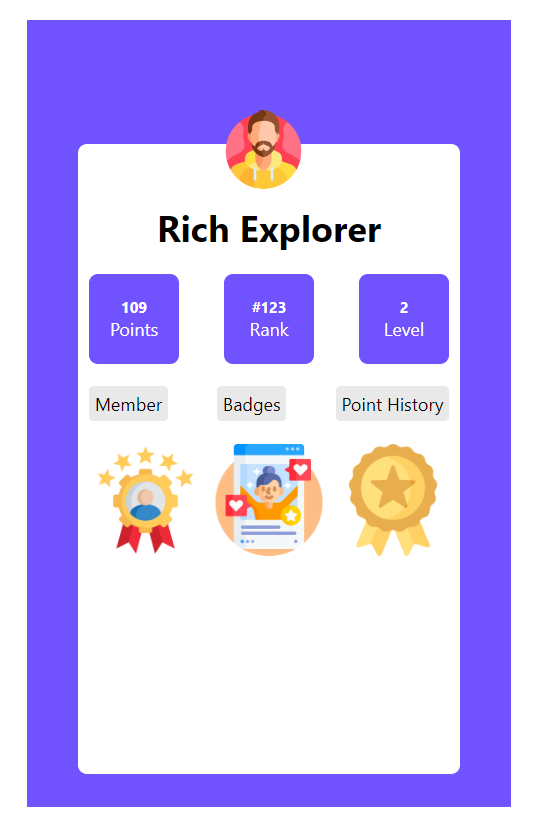
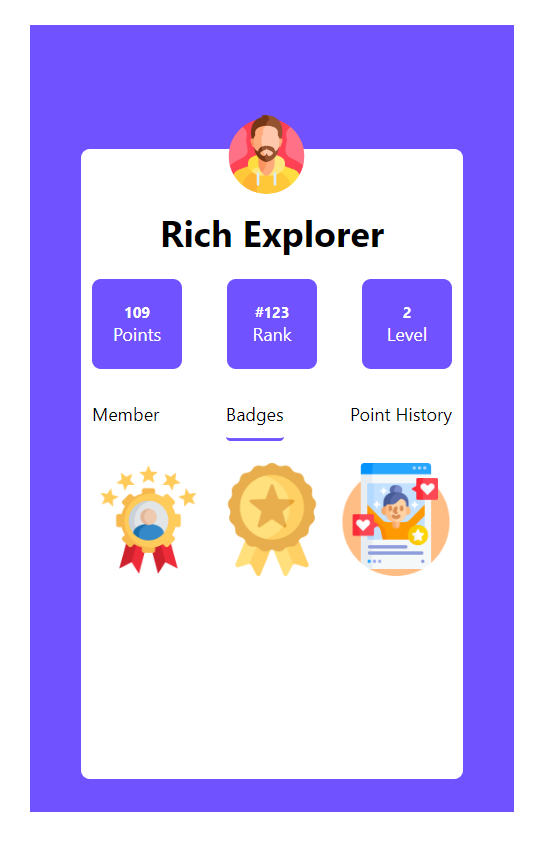
main

diff --git a/quest_labs/src/components/Profile.jsx b/quest_labs/src/components/Profile.jsx
@@ -1,182 +1,210 @@
 import React, { useEffect, useState } from "react";
 import Popup from "./Popup";
 function Profile() {
-
-
   const [img, setimg] = useState("");
   const [show, setShow] = useState(false);
-  const [data, setdata] = useState("")
-  const [tier, settier] = useState("")
-  const [badge4, setbadge4] = useState("")
-  const [badge5, setbadge5] = useState("")
-  const [badge7, setbadge7] = useState("")
-  const [rank, setrank] = useState("")
+  const [data, setdata] = useState("");
+  const [tier, settier] = useState("");
+  const [badge4, setbadge4] = useState("");
+  const [badge5, setbadge5] = useState("");
+  const [badge7, setbadge7] = useState("");
+  const [rank, setrank] = useState("");
 
+  const [activeTab, setActiveTab] = useState("Badges");
 
+  const handleTabClick = (tab) => {
+    setActiveTab(tab);
+  };
+
+  const handle_click = () => {
+    setShow(!show);
+  };
+
+  const close = () => {
+    setShow(false);
+  };
 
   const fetch_data = async () => {
     let headersList = {
-        "apikey": "k-6fe7e7dc-ac8f-44a1-8bbf-a1754ddf88be",
-        "token": "eyJhbGciOiJIUzI1NiIsInR5cCI6IkpXVCJ9.eyJ1c2VySWQiOiJ1LWEyMzk5NDg5LTljZDAtNGM5NC1hZDEyLTU2ODM3OTIwMmIwOCIsImlhdCI6MTcwNzk4NzYyOSwiZXhwIjoxNzA4NTkyNDI5fQ.fESDqKunAqLUgHBCUsNYpGcNrTeVEty91HqGebX59Uc"
-       }
-       
-       let res = await fetch("https://staging.questprotocol.xyz/api/users/u-a2399489-9cd0-4c94-ad12-568379202b08", { 
-         method: "GET",
-         headers: headersList
-       });
-       
-       let data = await res.json();
-      console.log("1", data)
-       setimg(data.data.imageUrl)
-       
+      apikey: "k-6fe7e7dc-ac8f-44a1-8bbf-a1754ddf88be",
+      token:
+        "eyJhbGciOiJIUzI1NiIsInR5cCI6IkpXVCJ9.eyJ1c2VySWQiOiJ1LWEyMzk5NDg5LTljZDAtNGM5NC1hZDEyLTU2ODM3OTIwMmIwOCIsImlhdCI6MTcwNzk4NzYyOSwiZXhwIjoxNzA4NTkyNDI5fQ.fESDqKunAqLUgHBCUsNYpGcNrTeVEty91HqGebX59Uc",
+    };
+
+    let res = await fetch(
+      "https://staging.questprotocol.xyz/api/users/u-a2399489-9cd0-4c94-ad12-568379202b08",
+      {
+        method: "GET",
+        headers: headersList,
+      }
+    );
+
+    let data = await res.json();
+    console.log("1", data);
+    setimg(data.data.imageUrl);
   };
 
-
-
-  const fetch2 = async() => {
+  const fetch2 = async () => {
     let headersList = {
-        "apikey": "k-6fe7e7dc-ac8f-44a1-8bbf-a1754ddf88be",
-        "token": "eyJhbGciOiJIUzI1NiIsInR5cCI6IkpXVCJ9.eyJ1c2VySWQiOiJ1LWEyMzk5NDg5LTljZDAtNGM5NC1hZDEyLTU2ODM3OTIwMmIwOCIsImlhdCI6MTcwNzk4NzYyOSwiZXhwIjoxNzA4NTkyNDI5fQ.fESDqKunAqLUgHBCUsNYpGcNrTeVEty91HqGebX59Uc"
-       }
-       
-       let response = await fetch("https://staging.questprotocol.xyz/api/entities/e-0000000000/users/u-a2399489-9cd0-4c94-ad12-568379202b08/xp", { 
-         method: "GET",
-         headers: headersList
-       });
-       
-       let data = await response.json();
-       console.log("2",data);
-       setdata(data.data)
-       settier(data.tier)
-       
-  }
+      apikey: "k-6fe7e7dc-ac8f-44a1-8bbf-a1754ddf88be",
+      token:
+        "eyJhbGciOiJIUzI1NiIsInR5cCI6IkpXVCJ9.eyJ1c2VySWQiOiJ1LWEyMzk5NDg5LTljZDAtNGM5NC1hZDEyLTU2ODM3OTIwMmIwOCIsImlhdCI6MTcwNzk4NzYyOSwiZXhwIjoxNzA4NTkyNDI5fQ.fESDqKunAqLUgHBCUsNYpGcNrTeVEty91HqGebX59Uc",
+    };
 
+    let response = await fetch(
+      "https://staging.questprotocol.xyz/api/entities/e-0000000000/users/u-a2399489-9cd0-4c94-ad12-568379202b08/xp",
+      {
+        method: "GET",
+        headers: headersList,
+      }
+    );
 
-  const fetch3 = async() => {
+    let data = await response.json();
+    console.log("2", data);
+    setdata(data.data);
+    settier(data.tier);
+  };
+
+  const fetch3 = async () => {
     let headersList = {
-        "apikey": "k-6fe7e7dc-ac8f-44a1-8bbf-a1754ddf88be",
-        "token": "eyJhbGciOiJIUzI1NiIsInR5cCI6IkpXVCJ9.eyJ1c2VySWQiOiJ1LWEyMzk5NDg5LTljZDAtNGM5NC1hZDEyLTU2ODM3OTIwMmIwOCIsImlhdCI6MTcwNzk4NzYyOSwiZXhwIjoxNzA4NTkyNDI5fQ.fESDqKunAqLUgHBCUsNYpGcNrTeVEty91HqGebX59Uc"
-       }
-       
-       let response = await fetch("https://staging.questprotocol.xyz/api/entities/e-0000000000/users/u-a2399489-9cd0-4c94-ad12-568379202b08/xp-leaderboard-rank", { 
-         method: "GET",
-         headers: headersList
-       });
-       
-       let data = await response.json();
-       console.log("3",data.data);
-       setrank(data.data.position)
-       
-  }
-  const fetch4 = async() => {
+      apikey: "k-6fe7e7dc-ac8f-44a1-8bbf-a1754ddf88be",
+      token:
+        "eyJhbGciOiJIUzI1NiIsInR5cCI6IkpXVCJ9.eyJ1c2VySWQiOiJ1LWEyMzk5NDg5LTljZDAtNGM5NC1hZDEyLTU2ODM3OTIwMmIwOCIsImlhdCI6MTcwNzk4NzYyOSwiZXhwIjoxNzA4NTkyNDI5fQ.fESDqKunAqLUgHBCUsNYpGcNrTeVEty91HqGebX59Uc",
+    };
+
+    let response = await fetch(
+      "https://staging.questprotocol.xyz/api/entities/e-0000000000/users/u-a2399489-9cd0-4c94-ad12-568379202b08/xp-leaderboard-rank",
+      {
+        method: "GET",
+        headers: headersList,
+      }
+    );
+
+    let data = await response.json();
+    console.log("3", data.data);
+    setrank(data.data.position);
+  };
+  const fetch4 = async () => {
     let headersList = {
-        "apikey": "k-6fe7e7dc-ac8f-44a1-8bbf-a1754ddf88be",
-        "token": "eyJhbGciOiJIUzI1NiIsInR5cCI6IkpXVCJ9.eyJ1c2VySWQiOiJ1LWEyMzk5NDg5LTljZDAtNGM5NC1hZDEyLTU2ODM3OTIwMmIwOCIsImlhdCI6MTcwNzk4NzYyOSwiZXhwIjoxNzA4NTkyNDI5fQ.fESDqKunAqLUgHBCUsNYpGcNrTeVEty91HqGebX59Uc"
-       }
-       
-       let response = await fetch("https://staging.questprotocol.xyz/api/entities/e-0000000000/users/u-a2399489-9cd0-4c94-ad12-568379202b08/xp-history", { 
-         method: "GET",
-         headers: headersList
-       });
-       
-       let data = await response.json();
-       console.log("4",data.data);
-       
-  }
-  const fetch5 = async() => {
+      apikey: "k-6fe7e7dc-ac8f-44a1-8bbf-a1754ddf88be",
+      token:
+        "eyJhbGciOiJIUzI1NiIsInR5cCI6IkpXVCJ9.eyJ1c2VySWQiOiJ1LWEyMzk5NDg5LTljZDAtNGM5NC1hZDEyLTU2ODM3OTIwMmIwOCIsImlhdCI6MTcwNzk4NzYyOSwiZXhwIjoxNzA4NTkyNDI5fQ.fESDqKunAqLUgHBCUsNYpGcNrTeVEty91HqGebX59Uc",
+    };
+
+    let response = await fetch(
+      "https://staging.questprotocol.xyz/api/entities/e-0000000000/users/u-a2399489-9cd0-4c94-ad12-568379202b08/xp-history",
+      {
+        method: "GET",
+        headers: headersList,
+      }
+    );
+
+    let data = await response.json();
+    console.log("4", data.data);
+  };
+  const fetch5 = async () => {
     let headersList = {
-        "apikey": "k-6fe7e7dc-ac8f-44a1-8bbf-a1754ddf88be",
-        "token": "eyJhbGciOiJIUzI1NiIsInR5cCI6IkpXVCJ9.eyJ1c2VySWQiOiJ1LWEyMzk5NDg5LTljZDAtNGM5NC1hZDEyLTU2ODM3OTIwMmIwOCIsImlhdCI6MTcwNzk4NzYyOSwiZXhwIjoxNzA4NTkyNDI5fQ.fESDqKunAqLUgHBCUsNYpGcNrTeVEty91HqGebX59Uc"
-       }
-       
-       let response = await fetch("https://staging.questprotocol.xyz/api/entities/e-0000000000/users/u-a2399489-9cd0-4c94-ad12-568379202b08/badges", { 
-         method: "GET",
-         headers: headersList
-       });
-       
-       let data = await response.json();
-       console.log("5", data.data[0].imageUrl);
-       setbadge4(data.data[4].imageUrl)
-       setbadge5(data.data[2].imageUrl)
-       setbadge7(data.data[7].imageUrl)
+      apikey: "k-6fe7e7dc-ac8f-44a1-8bbf-a1754ddf88be",
+      token:
+        "eyJhbGciOiJIUzI1NiIsInR5cCI6IkpXVCJ9.eyJ1c2VySWQiOiJ1LWEyMzk5NDg5LTljZDAtNGM5NC1hZDEyLTU2ODM3OTIwMmIwOCIsImlhdCI6MTcwNzk4NzYyOSwiZXhwIjoxNzA4NTkyNDI5fQ.fESDqKunAqLUgHBCUsNYpGcNrTeVEty91HqGebX59Uc",
+    };
+
+    let response = await fetch(
+      "https://staging.questprotocol.xyz/api/entities/e-0000000000/users/u-a2399489-9cd0-4c94-ad12-568379202b08/badges",
+      {
+        method: "GET",
+        headers: headersList,
+      }
+    );
+
+    let data = await response.json();
+    console.log("5", data.data[0].imageUrl);
+    setbadge4(data.data[4].imageUrl);
+    setbadge5(data.data[2].imageUrl);
+    setbadge7(data.data[7].imageUrl);
     //    setbadges(data)
-       
-  }
-  
+  };
 
   useEffect(() => {
     fetch_data();
-    fetch2()
-    fetch3()
-    fetch4()
-    fetch5()
+    fetch2();
+    fetch3();
+    fetch4();
+    fetch5();
   }, []);
 
-
-
-const handle_click = () => [
-    setShow(!show)
-]
-
-const close = () => [
-    setShow(false)
-]
-
-
   return (
-
     <div className="profile_container">
-   
-   {show && <Popup close ={close} badge4={badge4} badge7={badge7}/>}
+      {show && <Popup close={close} badge4={badge4} badge7={badge7} />}
       <div className="item">
         <div className="info">
-       
-          <img className="rich_img"
-            src={img}
-            alt=""
-          />
+          <img className="rich_img" src={img} alt="" />
           <h1>Rich Explorer</h1>
         </div>
 
         <div className="explorer">
-
-
           <div>
             <h5>{data}</h5>
             <p>Points</p>
           </div>
 
           <div>
-          <h5>#{rank}</h5>
+            <h5>#{rank}</h5>
             <p>Rank</p>
           </div>
 
           <div>
-          <h5>{tier}</h5>
+            <h5>{tier}</h5>
             <p>Level</p>
           </div>
-
-
         </div>
 
         <div className="member">
-          <p >Member</p>
-          <p >Badges</p>
-          <p>Point History</p>
-       
+          <p
+            onClick={() => handleTabClick("Member")}
+            className={activeTab === "Member" ? "active-tab" : ""}
+          >
+            Member
+          </p>
+          <p
+            onClick={() => handleTabClick("Badges")}
+            className={activeTab === "Badges" ? "active-tab" : ""}
+          >
+            Badges
+          </p>
+          <p
+            onClick={() => handleTabClick("PointHistory")}
+            className={activeTab === "PointHistory" ? "active-tab" : ""}
+          >
+            Point History
+          </p>
         </div>
-        <div className="badges_img">
+        {activeTab === "Member" && (
+          <div className="member-content badges_img">
             <img onClick={handle_click} src={badge4} alt="" />
             <img onClick={handle_click} src={badge5} alt="" />
             <img onClick={handle_click} src={badge7} alt="" />
-            </div>
+          </div>
+        )}
+
+        {activeTab === "Badges" && (
+          <div className="badges_img">
+            <img onClick={handle_click} src={badge4} alt="" />
+            <img onClick={handle_click} src={badge7} alt="" />
+            <img onClick={handle_click} src={badge5} alt="" />
+          </div>
+        )}
+
+        {activeTab === "PointHistory" && (
+          <div className="point-history-content badges_img">
+            <img onClick={handle_click} src={badge5} alt="" />
+           <img onClick={handle_click} src={badge4} alt="" />
+            <img onClick={handle_click} src={badge7} alt="" />
+          </div>
+        )}
       </div>
-
-      
     </div>
-    
   );
-
 }
 
 export default Profile;

diff --git a/quest_labs/src/App.scss b/quest_labs/src/App.scss
@@ -72,14 +72,10 @@
   }
   p {
     cursor: pointer;
-    background-color: rgb(233, 233, 233);
-    padding: 5px;
     border-radius: 4px;
+    padding: 10px 0px;
   }
-  :hover {
-    background-color: tomato;
-    color: white;
-  }
+
 }
 
 .popup {
@@ -160,4 +156,10 @@
   img {
     width: 20px;
   }
+}
+
+
+.active-tab{
+  color: 7052ff;
+  border-bottom: 3px solid #7052ff;
 }
